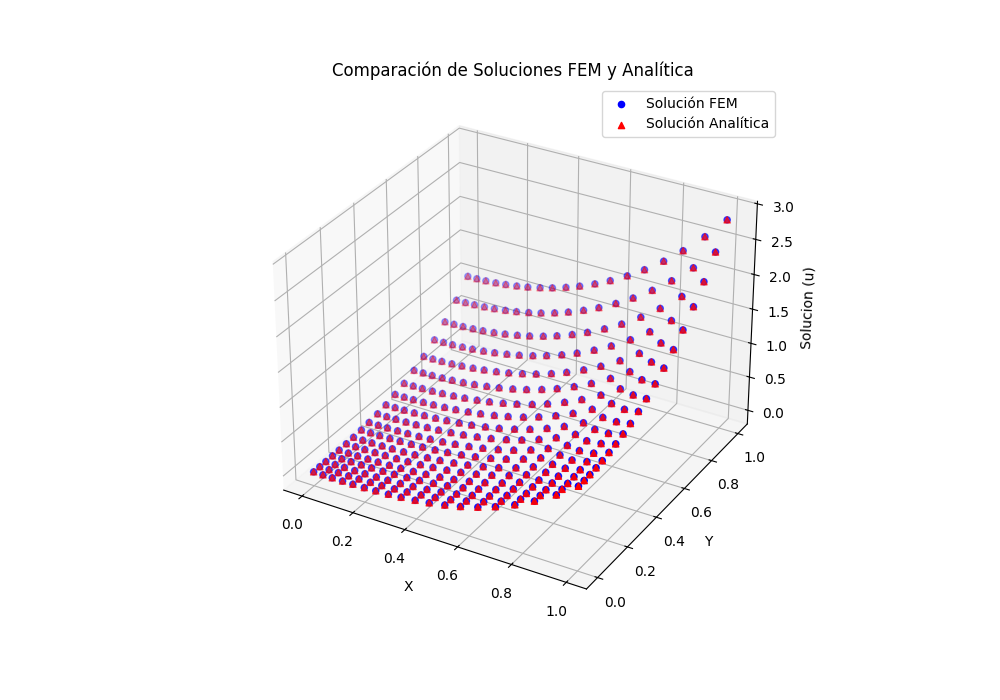
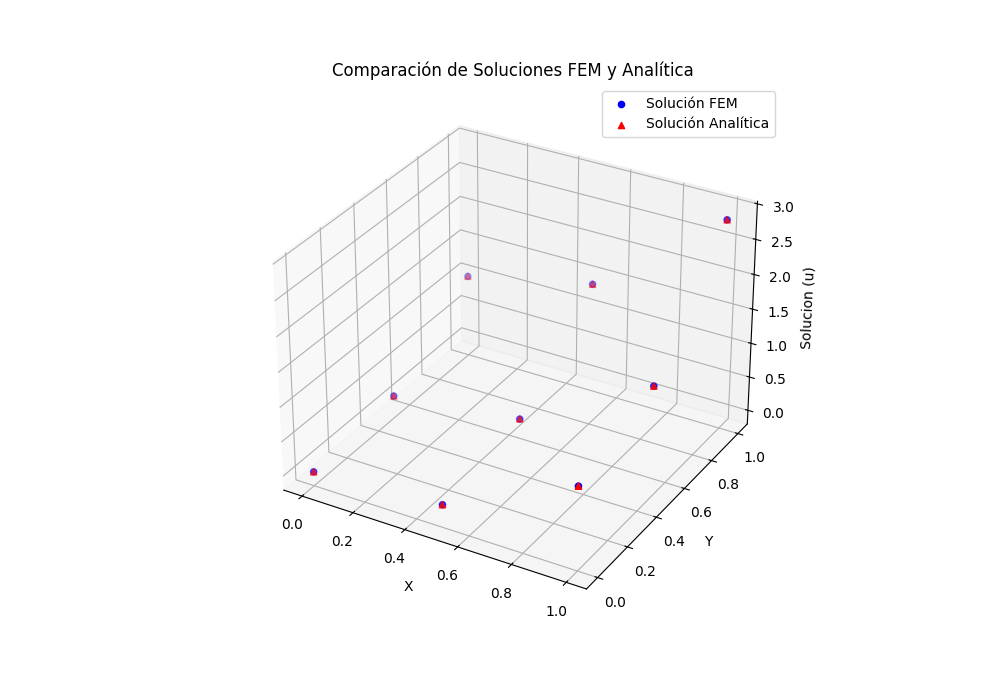
avance

Changed region(s): [[0.31, 0.39, 0.713, 0.75], [0.682, 0.33, 0.713, 0.39]]

diff --git a/VALIDACION_FEM/main.py b/VALIDACION_FEM/main.py
@@ -8,7 +8,7 @@ from nodes import Node
 from elements import Element
 from solve import Solve
 
-
+"""
 def fixed_load_mesh_objects(geo_file="geo.geo", msh_file="mesh.msh", n_nodes=9):
     # Leer malla
     mesh = meshio.read(msh_file)
@@ -43,6 +43,7 @@ def fixed_load_mesh_objects(geo_file="geo.geo", msh_file="mesh.msh", n_nodes=9):
         node.boundary_label = []
         for name, id_set in boundary_nodes.items():
             if node.id in id_set:
+                print(name)
                 node.boundary_label.append(name)
 
     # Crear elementos genéricos (filtrando solo elementos de tipo 'triangle' o 'quad')
@@ -56,6 +57,49 @@ def fixed_load_mesh_objects(geo_file="geo.geo", msh_file="mesh.msh", n_nodes=9):
                 elements.append(Element(i + 1, node_ids, n_nodes))  # Crear el elemento Quad9
 
     return nodes, elements
+"""
+def fixed_load_mesh_objects(geo_file="geo.geo", msh_file="mesh.msh", n_nodes=9):
+    nodes = []
+    node = Node(1, 0, 0)  # Nodo de ejemplo
+    node.boundary_label.append("Dirichlet")
+    nodes.append(node)
+    node = Node(2, 1, 0)  # Nodo de ejemplo
+    node.boundary_label.append("Dirichlet")
+    nodes.append(node)
+    node = Node(3, 1, 1)  # Nodo de ejemplo
+    node.boundary_label.append("Dirichlet")
+    nodes.append(node)
+    node = Node(4, 0, 1)  # Nodo de ejemplo
+    node.boundary_label.append("Dirichlet")
+    nodes.append(node)
+    node = Node(5, 0.5, 0)  # Nodo de ejemplo
+    node.boundary_label.append("Dirichlet")
+    nodes.append(node)
+    node = Node(6, 1, 0.5)  # Nodo de ejemplo
+    node.boundary_label.append("Dirichlet")
+    nodes.append(node)
+    node = Node(7, 0.5, 1)  # Nodo de ejemplo
+    node.boundary_label.append("Dirichlet")
+    nodes.append(node)
+    node = Node(8, 0, 0.5)  # Nodo de ejemplo
+    node.boundary_label.append("Dirichlet")
+    nodes.append(node)
+    node = Node(9, 0.5, 0.5)  # Nodo de ejemplo
+    
+    nodes.append(node)
+
+    elements = []
+
+    # Crear elementos Quad9
+    elem = Element(1, [1, 2, 3, 4, 5, 6, 7, 8, 9], n_nodes)
+    elements.append(elem)
+    
+    
+
+
+    
+    return nodes, elements
+
 
 import matplotlib.pyplot as plt
 from mpl_toolkits.mplot3d import Axes3D

diff --git a/VALIDACION_FEM/nodes.py b/VALIDACION_FEM/nodes.py
@@ -6,7 +6,7 @@ class Node:
         self.y = y
         self.u = 0.0  # Inicializar u en 0.0
         self.u_fem = 0.0
-        self.boundary_label = None
+        self.boundary_label = []
 
     def solve_u (self, alpha):
         # Método para calcular u basado en la posición del nodo

diff --git a/VALIDACION_FEM/Form_Funct.py b/VALIDACION_FEM/Form_Funct.py
@@ -97,4 +97,4 @@ def validate_all_shape_functions():
 validate_all_shape_functions()
 
 # Llamar a la función para calcular las derivadas simbólicas de las funciones de forma
-calculate_derivatives()
+#calculate_derivatives()
